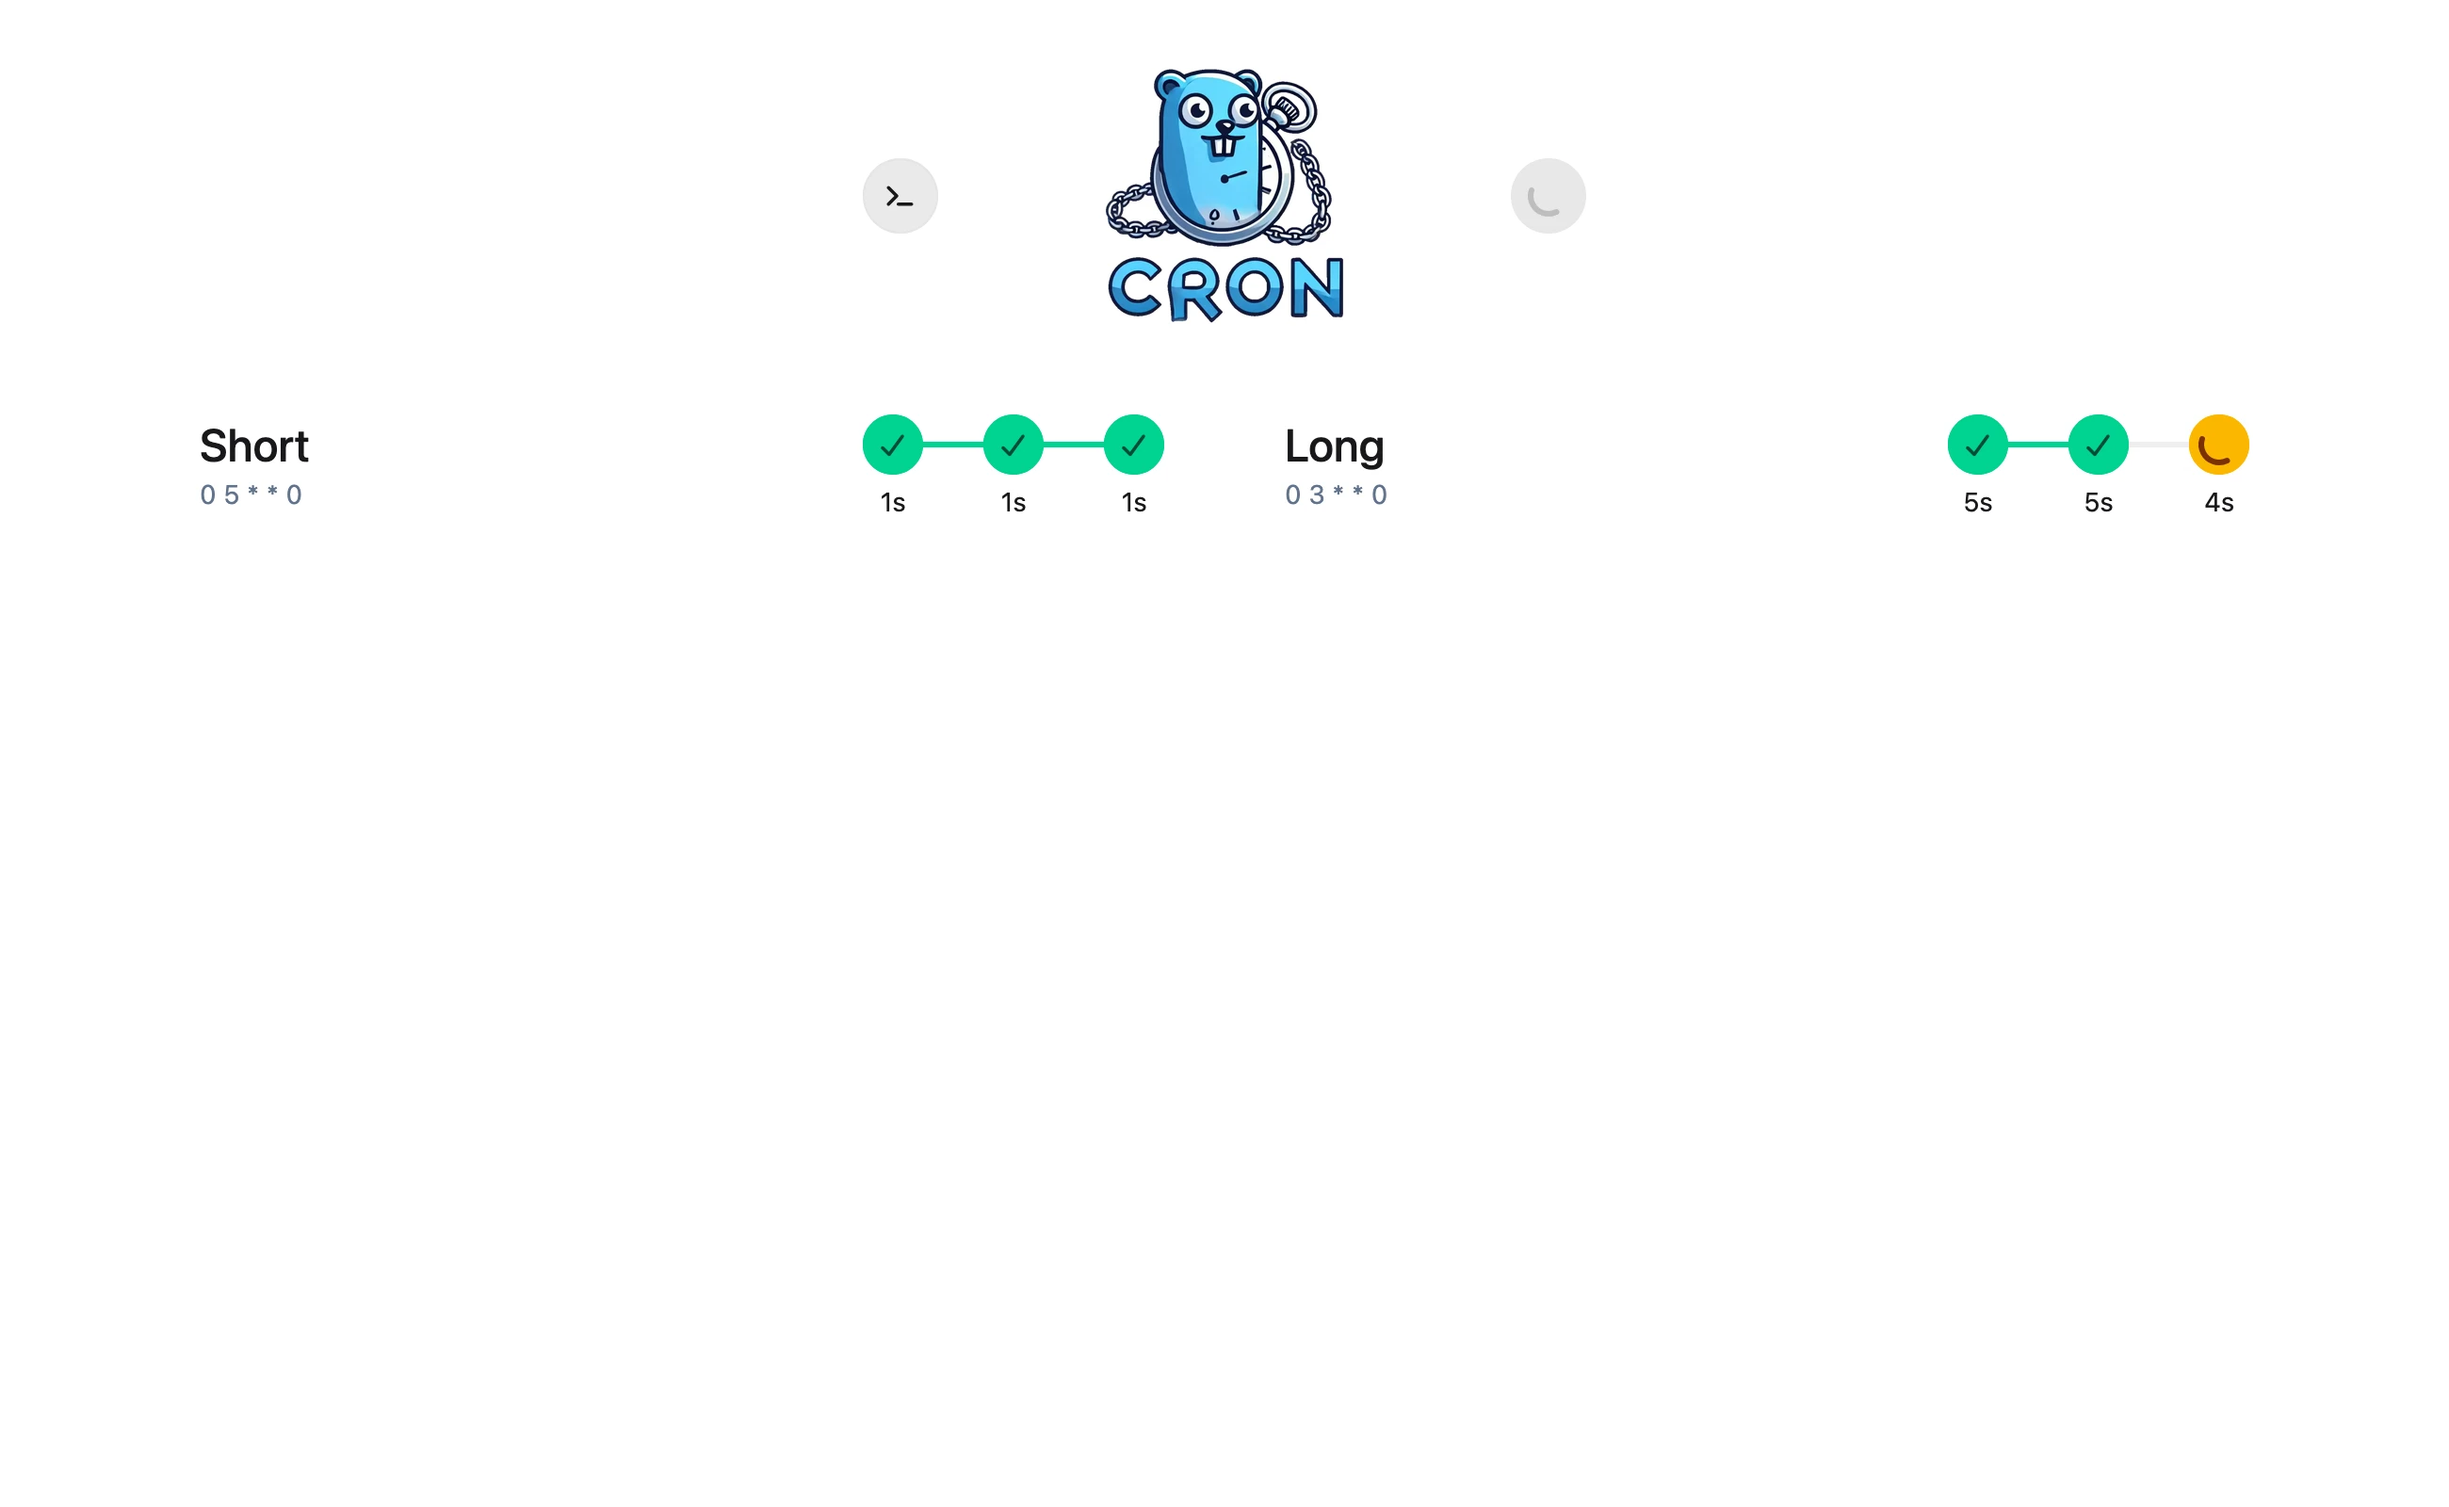
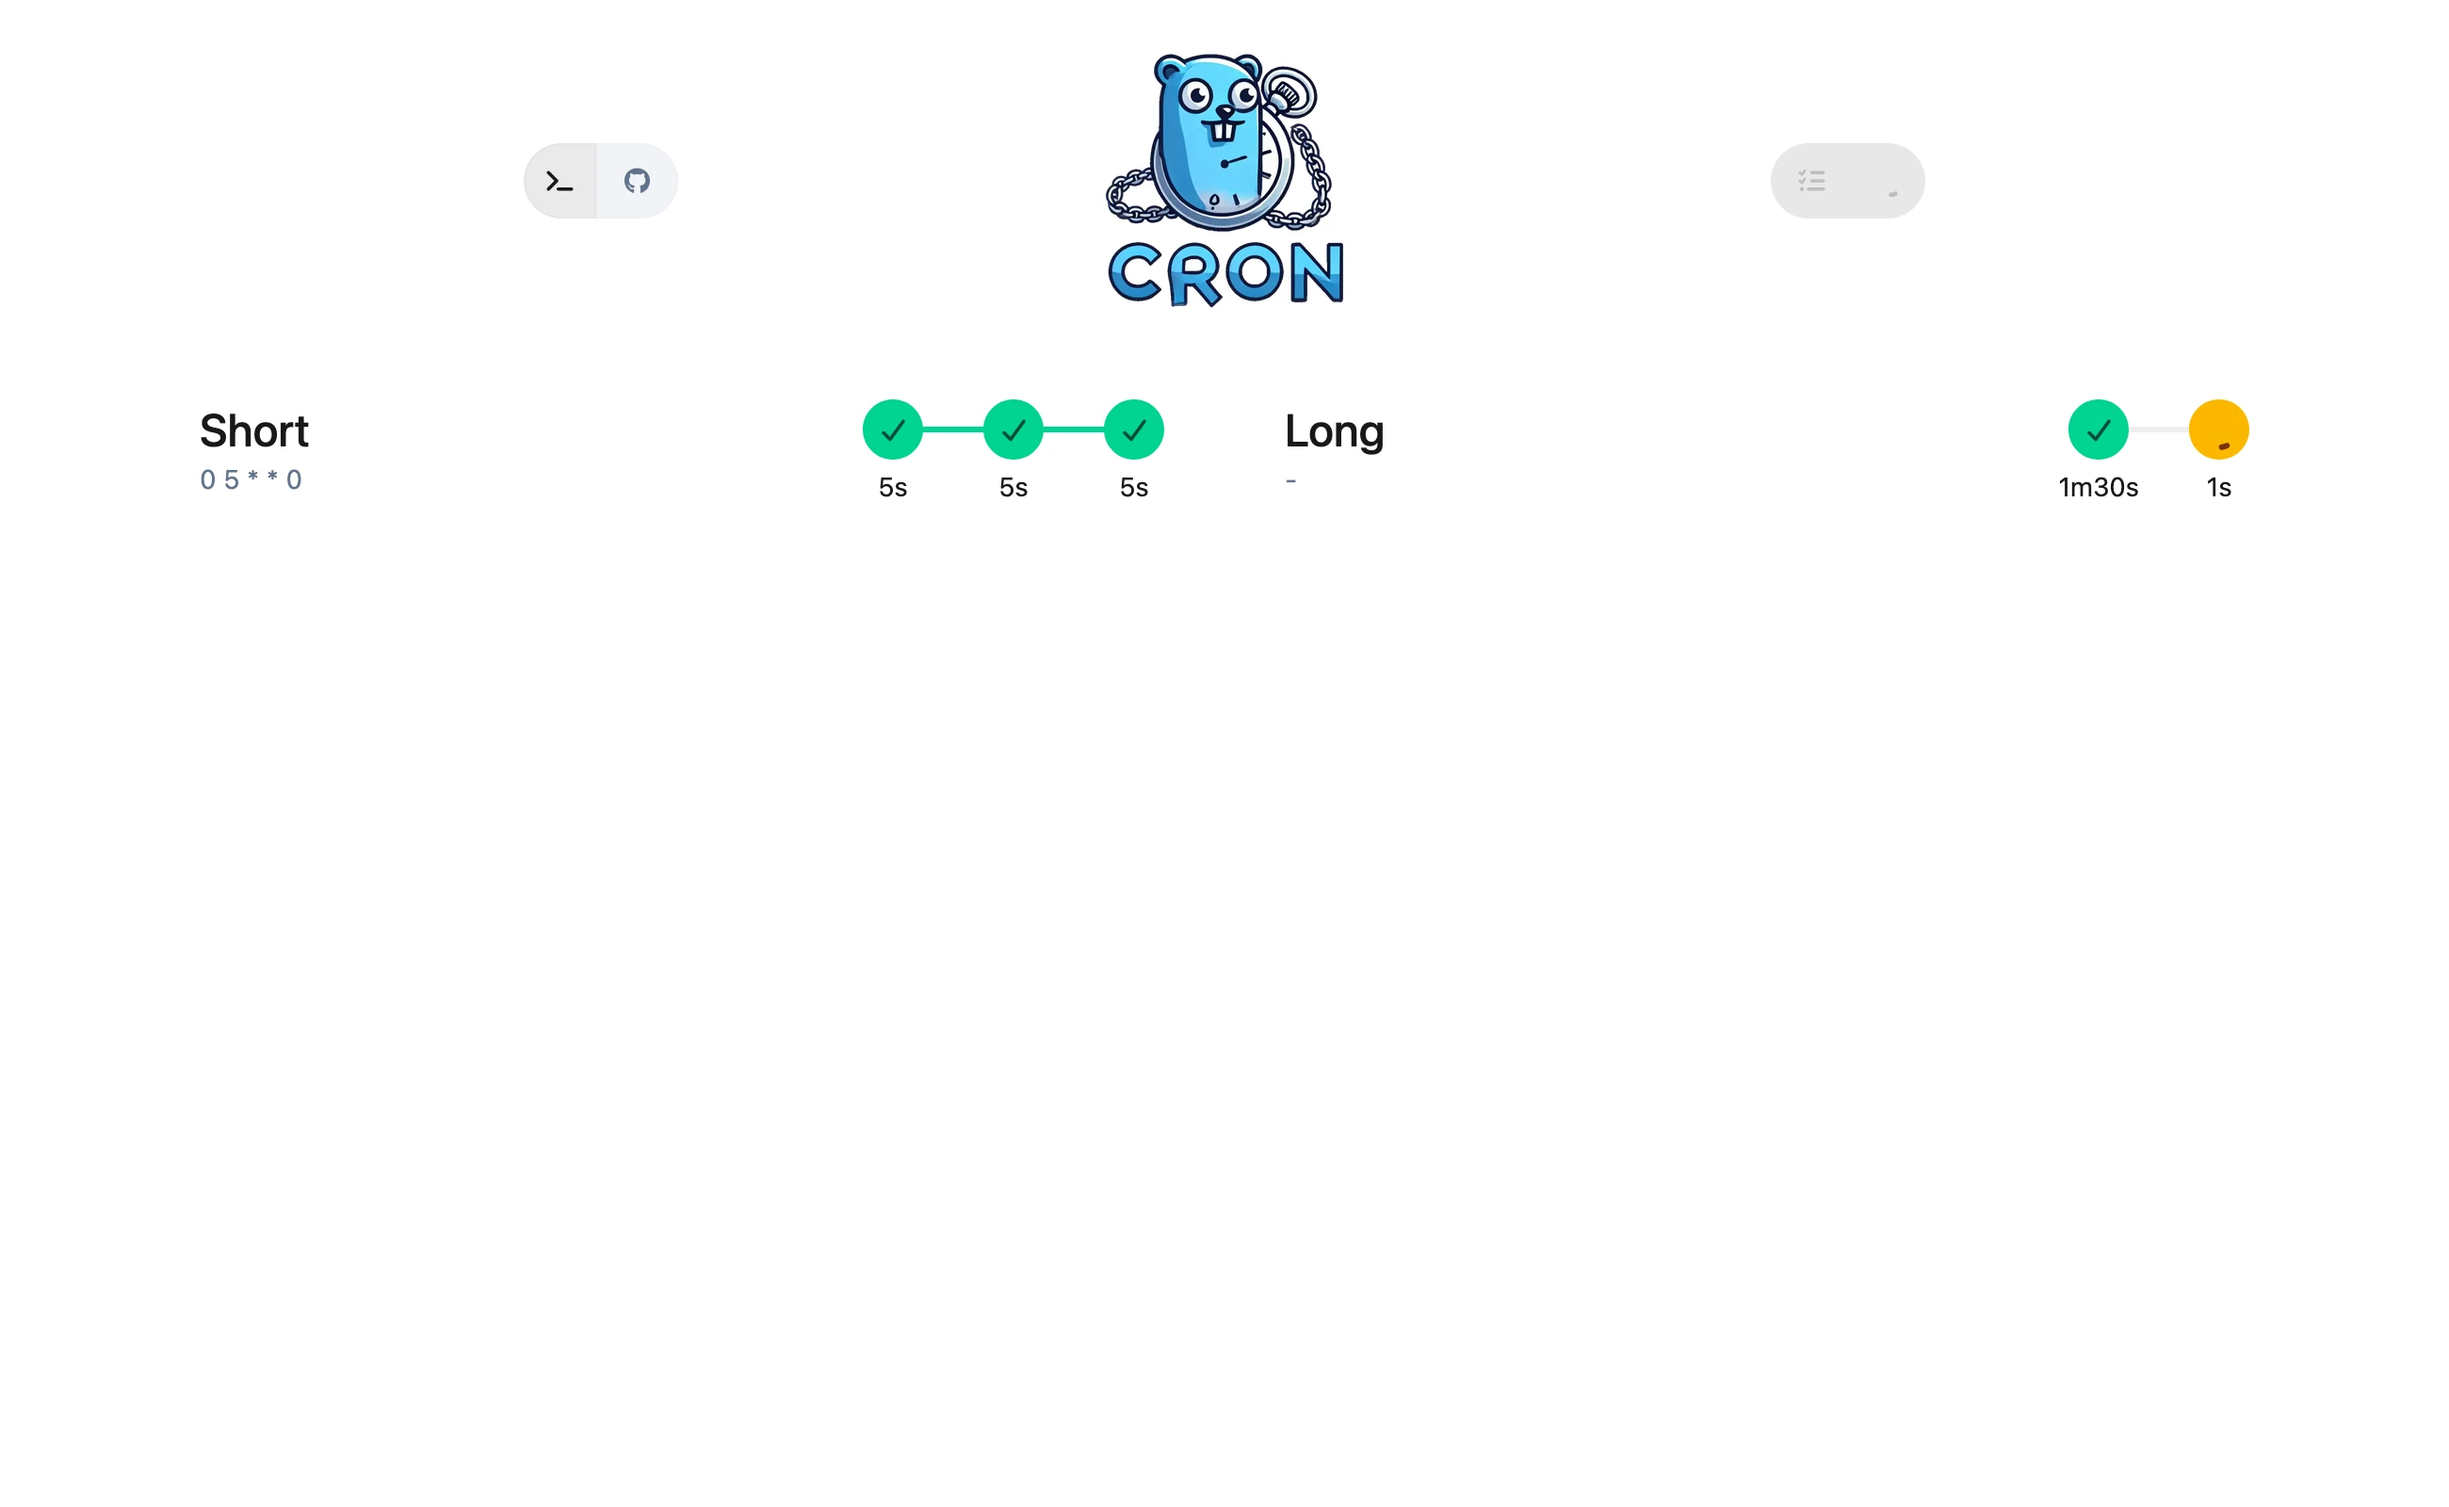
Update screenshots

diff --git a/README.md b/README.md
@@ -78,24 +78,26 @@ services:
 ### Dark mode
 
 <p align="center">
-  <img src="screenshots/jobs-dark.webp" width="250" />
-  <img src="screenshots/job-dark.webp" width="250" />
-  <img src="screenshots/terminal-dark.webp" width="250" />
+  <img src="screenshots/jobs-dark.webp" width="500" />
+  <img src="screenshots/job-dark.webp" width="500" />
+  <img src="screenshots/terminal-dark.webp" width="500" />
+  <img src="screenshots/filter-dark.webp" width="500" />
 </p>
 
 ### Light mode
 
 <p align="center">
-  <img src="screenshots/jobs-light.webp" width="250" />
-  <img src="screenshots/job-light.webp" width="250" />
-  <img src="screenshots/terminal-light.webp" width="250" />
+  <img src="screenshots/jobs-light.webp" width="500" />
+  <img src="screenshots/job-light.webp" width="500" />
+  <img src="screenshots/terminal-light.webp" width="500" />
+  <img src="screenshots/filter-light.webp" width="500" />
 </p>
 
 ### API Docs
 
 <p align="center">
-  <img src="screenshots/api-dark.webp" width="250" />
-  <img src="screenshots/api-light.webp" width="250" />
+  <img src="screenshots/api-dark.webp" width="500" />
+  <img src="screenshots/api-light.webp" width="500" />
 </p>
 
 ## Configuration File

diff --git a/release.md b/release.md
@@ -17,7 +17,8 @@
 
 - Possibility to select jobs for run in GUI
 
-  <img src="screenshots/release/select_job.webp" width="500" />
+  <img src="screenshots/filter-dark.webp" width="500" />
+  <img src="screenshots/filter-light.webp" width="500" />
 
 ## 🐛 Bug Fixes
 
